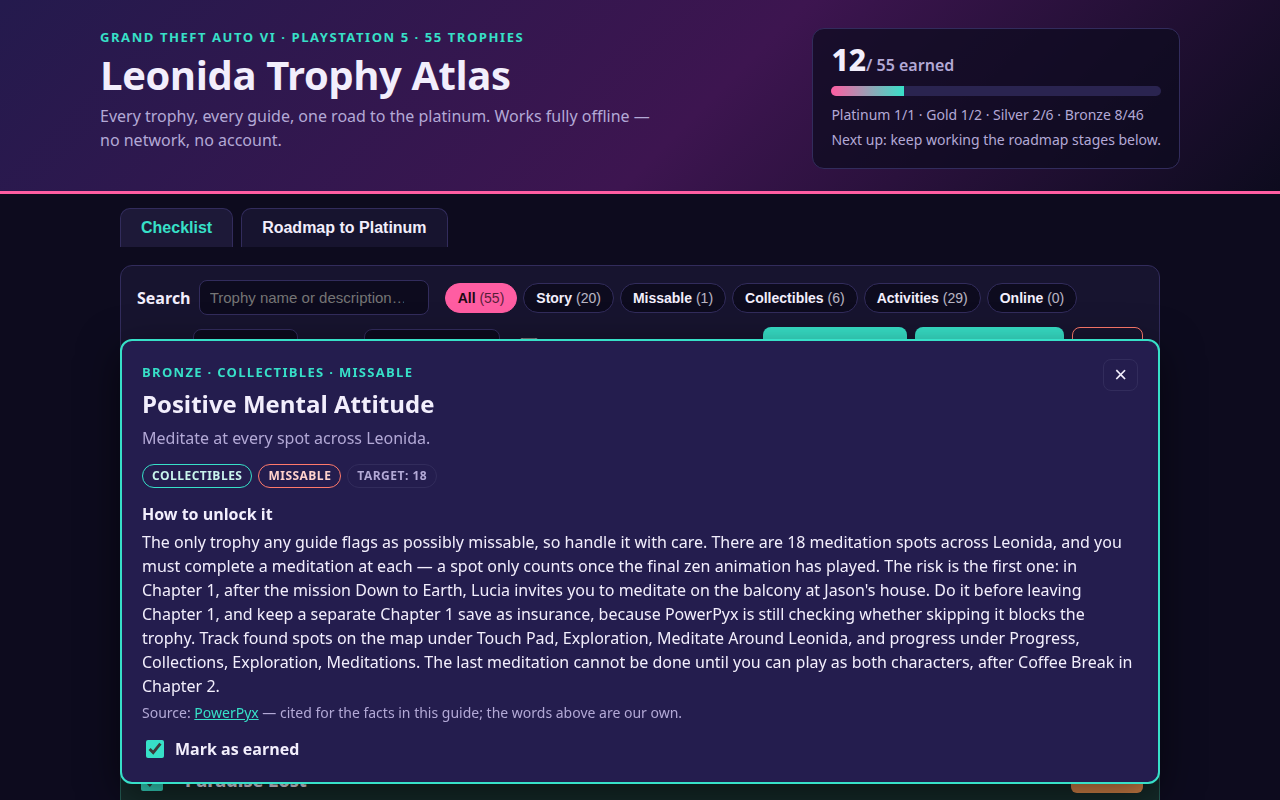
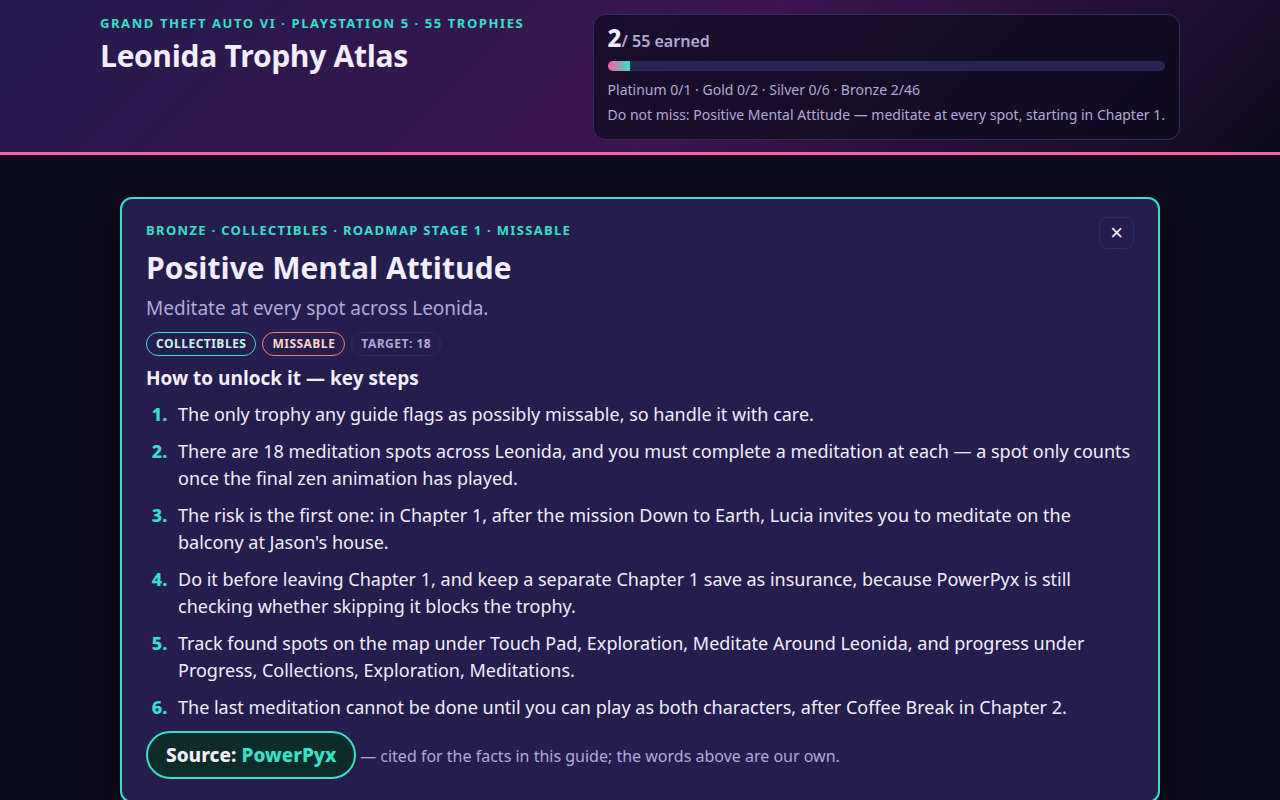
Leonida Trophy Atlas v2: guides as numbered key steps with source chips, denser checklist, no strikethrough names

diff --git a/app/style.css b/app/style.css
@@ -221,7 +221,7 @@ main {
 }
 
 .trophy-name { font-size: 18px; font-weight: 800; margin: 0; }
-.trophy-row.earned .trophy-name { text-decoration: line-through; text-decoration-thickness: 2px; }
+.trophy-row.earned .trophy-name { font-weight: 800; }
 .trophy-desc { margin: 2px 0 0; color: var(--muted); }
 .trophy-desc.hidden-desc { font-style: italic; }
 
@@ -239,6 +239,7 @@ main {
 }
 
 .tag.missable { color: #ffd2cc; border-color: var(--danger); }
+.tag.earned-tag { color: #06231f; background: var(--accent-2); border-color: var(--accent-2); }
 .tag.kind-story { color: #ffd9ec; border-color: var(--accent); }
 .tag.kind-collectibles { color: #c9f5ec; border-color: var(--accent-2); }
 .tag.kind-activities { color: #ffe9bd; border-color: var(--gold); }
@@ -284,8 +285,8 @@ main {
   margin-bottom: 18px;
 }
 
-.missable-callout h2 { margin: 0 0 6px; font-size: 20px; color: #ffd2cc; }
-.missable-callout p { margin: 0; }
+.missable-callout h2 { margin: 0 0 6px; font-size: 24px; color: #ffd2cc; }
+.missable-callout p { margin: 0; font-size: 17px; line-height: 1.55; }
 
 .roadmap-stage {
   background: var(--card);
@@ -308,7 +309,7 @@ main {
   font-size: 14px;
   cursor: pointer;
 }
-.stage-trophy.earned { border-color: var(--accent-2); color: var(--accent-2); text-decoration: line-through; }
+.stage-trophy.earned { border-color: var(--accent-2); color: var(--accent-2); background: #123b36; }
 .stage-trophy .mini-grade { font-weight: 800; font-size: 11px; text-transform: uppercase; margin-right: 6px; }
 
 .roadmap-notes { background: var(--bg-soft); border: 1px solid var(--line); border-radius: var(--radius); padding: 16px 20px; }
@@ -358,3 +359,74 @@ footer p { margin: 6px 0; }
   .trophy-row { grid-template-columns: 30px 1fr; }
   .grade-badge { grid-column: 2; justify-self: start; }
 }
+
+/* Round 2: guides open as numbered key steps with a prominent source chip,
+   and two screenshot scenes — a dense checklist (shot-compact) and a
+   full-page guide reader (shot-guide-focus). */
+
+/* Numbered key steps: each sentence of a guide is one step. */
+.guide-steps { margin: 8px 0 0; padding-left: 26px; }
+.guide-steps li { margin: 0 0 10px; font-size: 17px; line-height: 1.55; padding-left: 6px; }
+.guide-steps li::marker { font-weight: 800; color: var(--accent-2); }
+
+/* The cited source, as a chip the judge can spot at a glance. */
+.guide-source { margin-top: 14px; }
+.source-chip {
+  display: inline-block;
+  background: #0d2b29;
+  border: 2px solid var(--accent-2);
+  border-radius: 999px;
+  padding: 6px 14px;
+  font-size: 16px;
+  font-weight: 800;
+  color: var(--text);
+}
+.source-chip a { color: var(--accent-2); text-decoration: none; }
+#guideSourceNote { font-size: 14px; color: var(--muted); }
+
+/* Dense checklist scene: slimmer masthead, tighter rows, and the open guide
+   panel pinned to the bottom of the viewport so the cover shows the checklist,
+   the filters, the progress and a guide all at once. */
+body.shot-compact .masthead { padding: 14px 20px 12px; }
+body.shot-compact h1 { font-size: 30px; margin-bottom: 4px; }
+body.shot-compact .tagline { display: none; }
+body.shot-compact .progress-card { padding: 10px 14px; min-width: 230px; }
+body.shot-compact .progress-numbers { font-size: 24px; }
+body.shot-compact .toolbar { padding: 10px 14px; }
+body.shot-compact .trophy-row { padding: 10px 14px; }
+body.shot-compact .trophy-name { font-size: 17px; }
+body.shot-compact .trophy-desc { font-size: 15px; }
+body.shot-compact .guide-panel {
+  position: fixed;
+  left: 50%;
+  transform: translateX(-50%);
+  width: min(1040px, calc(100% - 40px));
+  bottom: 8px;
+  z-index: 5;
+  max-height: 42vh;
+  overflow: auto;
+  padding: 12px 18px;
+  margin-top: 0;
+}
+body.shot-compact .guide-steps li { font-size: 15px; margin-bottom: 5px; }
+body.shot-compact .guide-panel h2 { font-size: 22px; }
+body.shot-compact .guide-panel h3 { font-size: 15px; margin-top: 6px; }
+body.shot-compact .guide-meta { margin-top: 6px; }
+body.shot-compact .source-chip { padding: 4px 12px; }
+body.shot-compact .guide-btn { display: none; }
+body.shot-compact .guide-earned { display: none; }
+
+/* Full-page guide reader scene: only the masthead and the guide panel, set
+   large so the steps and the source stay readable when the shot is shrunk. */
+body.shot-guide-focus .tabs,
+body.shot-guide-focus #viewChecklist,
+body.shot-guide-focus #viewRoadmap,
+body.shot-guide-focus footer { display: none; }
+body.shot-guide-focus .guide-panel { position: static; left: auto; width: auto; max-height: none; overflow: visible; transform: none; margin-top: 24px; padding: 18px 24px; }
+body.shot-guide-focus .guide-panel h2 { font-size: 30px; }
+body.shot-guide-focus .guide-desc { font-size: 19px; }
+body.shot-guide-focus .guide-panel h3 { font-size: 19px; margin-top: 8px; }
+body.shot-guide-focus .guide-steps li { font-size: 18px; line-height: 1.5; margin-bottom: 10px; }
+body.shot-guide-focus .guide-earned { display: none; }
+body.shot-guide-focus .source-chip { font-size: 19px; padding: 8px 18px; }
+body.shot-guide-focus #guideSourceNote { font-size: 16px; }

diff --git a/app/src/app.js b/app/src/app.js
@@ -112,6 +112,7 @@ function renderProgress() {
 
 function tagHtml(trophy) {
   const tags = [`<span class="tag kind-${trophy.kind}">${kindLabel(trophy.kind)}</span>`];
+  if (state.earned.has(trophy.id)) tags.push('<span class="tag earned-tag">✓ Earned</span>');
   if (trophy.missable) tags.push('<span class="tag missable">Missable</span>');
   if (trophy.count != null) tags.push(`<span class="tag">Target: ${trophy.count.toLocaleString('en-US')}</span>`);
   if (trophy.hidden) tags.push('<span class="tag">Hidden</span>');
@@ -140,15 +141,26 @@ function renderList() {
   $('resultCount').textContent = `Showing ${shown.length} of ${state.trophies.length} trophies`;
 }
 
+// Round 2: a guide opens as numbered key steps — one sentence per step —
+// so its substance reads at a glance instead of as one block of prose.
+function renderGuideSteps(guide) {
+  const steps = guide
+    .split(/(?<=[.!?])\s+/)
+    .map((s) => s.trim())
+    .filter((s) => s.length > 3)
+    .slice(0, 8);
+  $('guideSteps').innerHTML = steps.map((s) => `<li>${s.replace(/</g, '&lt;')}</li>`).join('');
+}
+
 function openGuide(id) {
   const trophy = state.trophies.find((t) => t.id === id);
   if (!trophy) return;
   state.openGuideId = id;
-  $('guideKicker').textContent = `${gradeLabel(trophy.grade)} · ${kindLabel(trophy.kind)}${trophy.missable ? ' · Missable' : ''}${trophy.hidden ? ' · Hidden' : ''}`;
+  $('guideKicker').textContent = `${gradeLabel(trophy.grade)} · ${kindLabel(trophy.kind)} · Roadmap stage ${trophy.stage}${trophy.missable ? ' · Missable' : ''}${trophy.hidden ? ' · Hidden' : ''}`;
   $('guideTitle').textContent = trophyVisibleName(trophy);
   $('guideDesc').textContent = trophyVisibleDesc(trophy);
   $('guideMeta').innerHTML = tagHtml(trophy);
-  $('guideText').textContent = trophy.guide;
+  renderGuideSteps(trophy.guide);
   const link = $('guideSource');
   link.textContent = trophy.source;
   link.href = trophy.sourceUrl;
@@ -159,7 +171,9 @@ function openGuide(id) {
     setEarned(trophy.id, box.checked);
   };
   $('guidePanel').hidden = false;
-  $('guidePanel').scrollIntoView({ behavior: 'smooth', block: 'nearest' });
+  // Screenshot scenes set window.__atlasNoScroll so opening a guide never
+  // scrolls the masthead and filters out of the shot.
+  if (!window.__atlasNoScroll) $('guidePanel').scrollIntoView({ behavior: 'smooth', block: 'nearest' });
 }
 
 function closeGuide() {

diff --git a/main.ts b/main.ts
@@ -59,8 +59,20 @@ function checkTrophyData() {
   return list.length;
 }
 
+// Fail fast if a screenshot is over the gate's 256 KiB cap: buildDossier
+// would refuse the dossier, and a late failure wastes a whole run.
+function checkScreenshots() {
+  const dir = join(REPO_ROOT, 'screenshots');
+  if (!existsSync(dir)) return;
+  const over = readdirSync(dir)
+    .filter((n) => !n.startsWith('.'))
+    .filter((n) => statSync(join(dir, n)).size > 262144);
+  if (over.length) throw new Error(`screenshot(s) over the 256 KiB cap: ${over.join(', ')}`);
+}
+
 mkdirSync(OUT_DIR, { recursive: true });
 const trophyCount = checkTrophyData();
+checkScreenshots();
 cpSync(join(REPO_ROOT, 'app'), join(OUT_DIR, 'app'), { recursive: true });
 mkdirSync(join(OUT_DIR, 'screenshots'), { recursive: true });
 if (existsSync(join(REPO_ROOT, 'screenshots'))) {
@@ -70,9 +82,10 @@ if (existsSync(join(REPO_ROOT, 'screenshots'))) {
 const dossierPath = join(OUT_DIR, 'dossier.json');
 writeFileSync(dossierPath, buildDossier(OUT_DIR, DOSSIER_OPTIONS));
 
-const shotCount = readdirSync(join(OUT_DIR, 'screenshots')).filter((n) => !n.startsWith('.')).length;
+const shotFiles = readdirSync(join(OUT_DIR, 'screenshots')).filter((n) => !n.startsWith('.')).sort();
+const shotSizes = shotFiles.map((n) => `${n} ${statSync(join(OUT_DIR, 'screenshots', n)).size}B`).join(', ');
 const dossierBytes = statSync(dossierPath).size;
 console.log(
   `Leonida Trophy Atlas handed in: ${trophyCount} trophies, ${countEntries(join(OUT_DIR, 'app'))} app entries, ` +
-    `${shotCount} screenshots, dossier ${dossierBytes} bytes -> ${OUT_DIR}`,
+    `${shotFiles.length} screenshots (${shotSizes}), dossier ${dossierBytes} bytes -> ${OUT_DIR}`,
 );

diff --git a/app/index.html b/app/index.html
@@ -98,9 +98,9 @@
       <button type="button" id="guideClose" aria-label="Close guide">×</button>
     </div>
     <div class="guide-meta" id="guideMeta"></div>
-    <h3>How to unlock it</h3>
-    <p id="guideText"></p>
-    <p class="guide-source">Source: <a id="guideSource" href="#" rel="noopener" target="_blank"></a> <span id="guideSourceNote"></span></p>
+    <h3>How to unlock it — key steps</h3>
+    <ol class="guide-steps" id="guideSteps"></ol>
+    <p class="guide-source"><span class="source-chip">Source: <a id="guideSource" href="#" rel="noopener" target="_blank"></a></span> <span id="guideSourceNote"></span></p>
     <label class="guide-earned"><input id="guideEarned" type="checkbox"> Mark as earned</label>
   </section>
 </main>

diff --git a/app/src/roadmap.js b/app/src/roadmap.js
@@ -108,7 +108,7 @@ export function renderRoadmap(state) {
         if (!t) return '';
         const earned = state.earned.has(id);
         const label = state.hideSpoilers && t.hidden && !earned ? 'Hidden trophy' : t.name;
-        return `<button type="button" class="stage-trophy${earned ? ' earned' : ''}" data-guide="${id}"><span class="mini-grade">${t.grade}</span>${label}</button>`;
+        return `<button type="button" class="stage-trophy${earned ? ' earned' : ''}" data-guide="${id}"><span class="mini-grade">${t.grade}</span>${earned ? '✓ ' : ''}${label}</button>`;
       })
       .join('');
     return `<article class="roadmap-stage">

diff --git a/app/src/shots.js b/app/src/shots.js
@@ -31,6 +31,13 @@ export function applyShotParams(state, actions) {
     }
   }
 
+  // Round 2 scenes: ?compact=1 densifies the page and pins an open guide
+  // panel to the viewport bottom; ?focus=guide shows a full-page guide
+  // reader; ?noscroll=1 keeps opening a guide from scrolling the shot.
+  if (params.get('compact') === '1') document.body.classList.add('shot-compact');
+  if (params.get('focus') === 'guide') document.body.classList.add('shot-guide-focus');
+  if (params.get('noscroll') === '1') window.__atlasNoScroll = true;
+
   const filter = params.get('filter');
   if (filter) {
     state.kind = filter;

diff --git a/serve.ts b/serve.ts
@@ -64,4 +64,5 @@ createServer((request, response) => {
   createReadStream(file).pipe(response);
 }).listen(port, '127.0.0.1', () => {
   console.log(`Leonida Trophy Atlas: app/ is on http://localhost:${port}`);
+  console.log(`Screenshot scenes: ${['checklist', 'guide', 'roadmap', 'filters'].map((s) => `/?shot=${s}`).join(' ')}`);
 });

diff --git a/README.md b/README.md
@@ -13,7 +13,8 @@ An offline guide and tracker for all 55 PlayStation 5 trophies of Grand Theft Au
 - **Filters** — by kind (story, missable, collectibles, activities, online), by grade, by earned/unearned, plus full-text search.
 - **Spoiler setting** — on by default: hidden story trophies stay covered (name and description) until you earn them.
 - **Roadmap to the platinum** — four stages in the order the published roadmaps recommend, with the time each stage takes and the trophies in it.
-- **Cited guides** — every trophy's guide names its source (Push Square, PowerPyx, GTABase, Insider Gaming, KeenGamer) beside the guide text.
+- **Cited guides** — every trophy's guide names its source (Push Square, PowerPyx, GTABase, Insider Gaming, KeenGamer) beside the guide text, shown as a source chip under the guide.
+- **Key steps** — each guide opens as a numbered list of steps, so its substance is readable at a glance, with the source chip right below it.
 
 ## Run it
 
@@ -29,6 +30,8 @@ node serve.ts
 ```
 
 The app is plain static files under `app/` — no build step, no network at run time. Open `app/index.html` in desktop Chrome with the network off and it works.
+
+Screenshot scenes (used by the maker's screenshot runs) take `?shot=checklist|guide|roadmap|filters`, `?compact=1` for a denser layout with an open guide pinned to the bottom, and `?focus=guide` for a full-page guide reader; `?trophy=<id>` opens a guide, `?spoilers=on|off` sets the spoiler toggle, and `?earned=<ids>` pre-checks trophies.
 
 ## Trophy data
 
